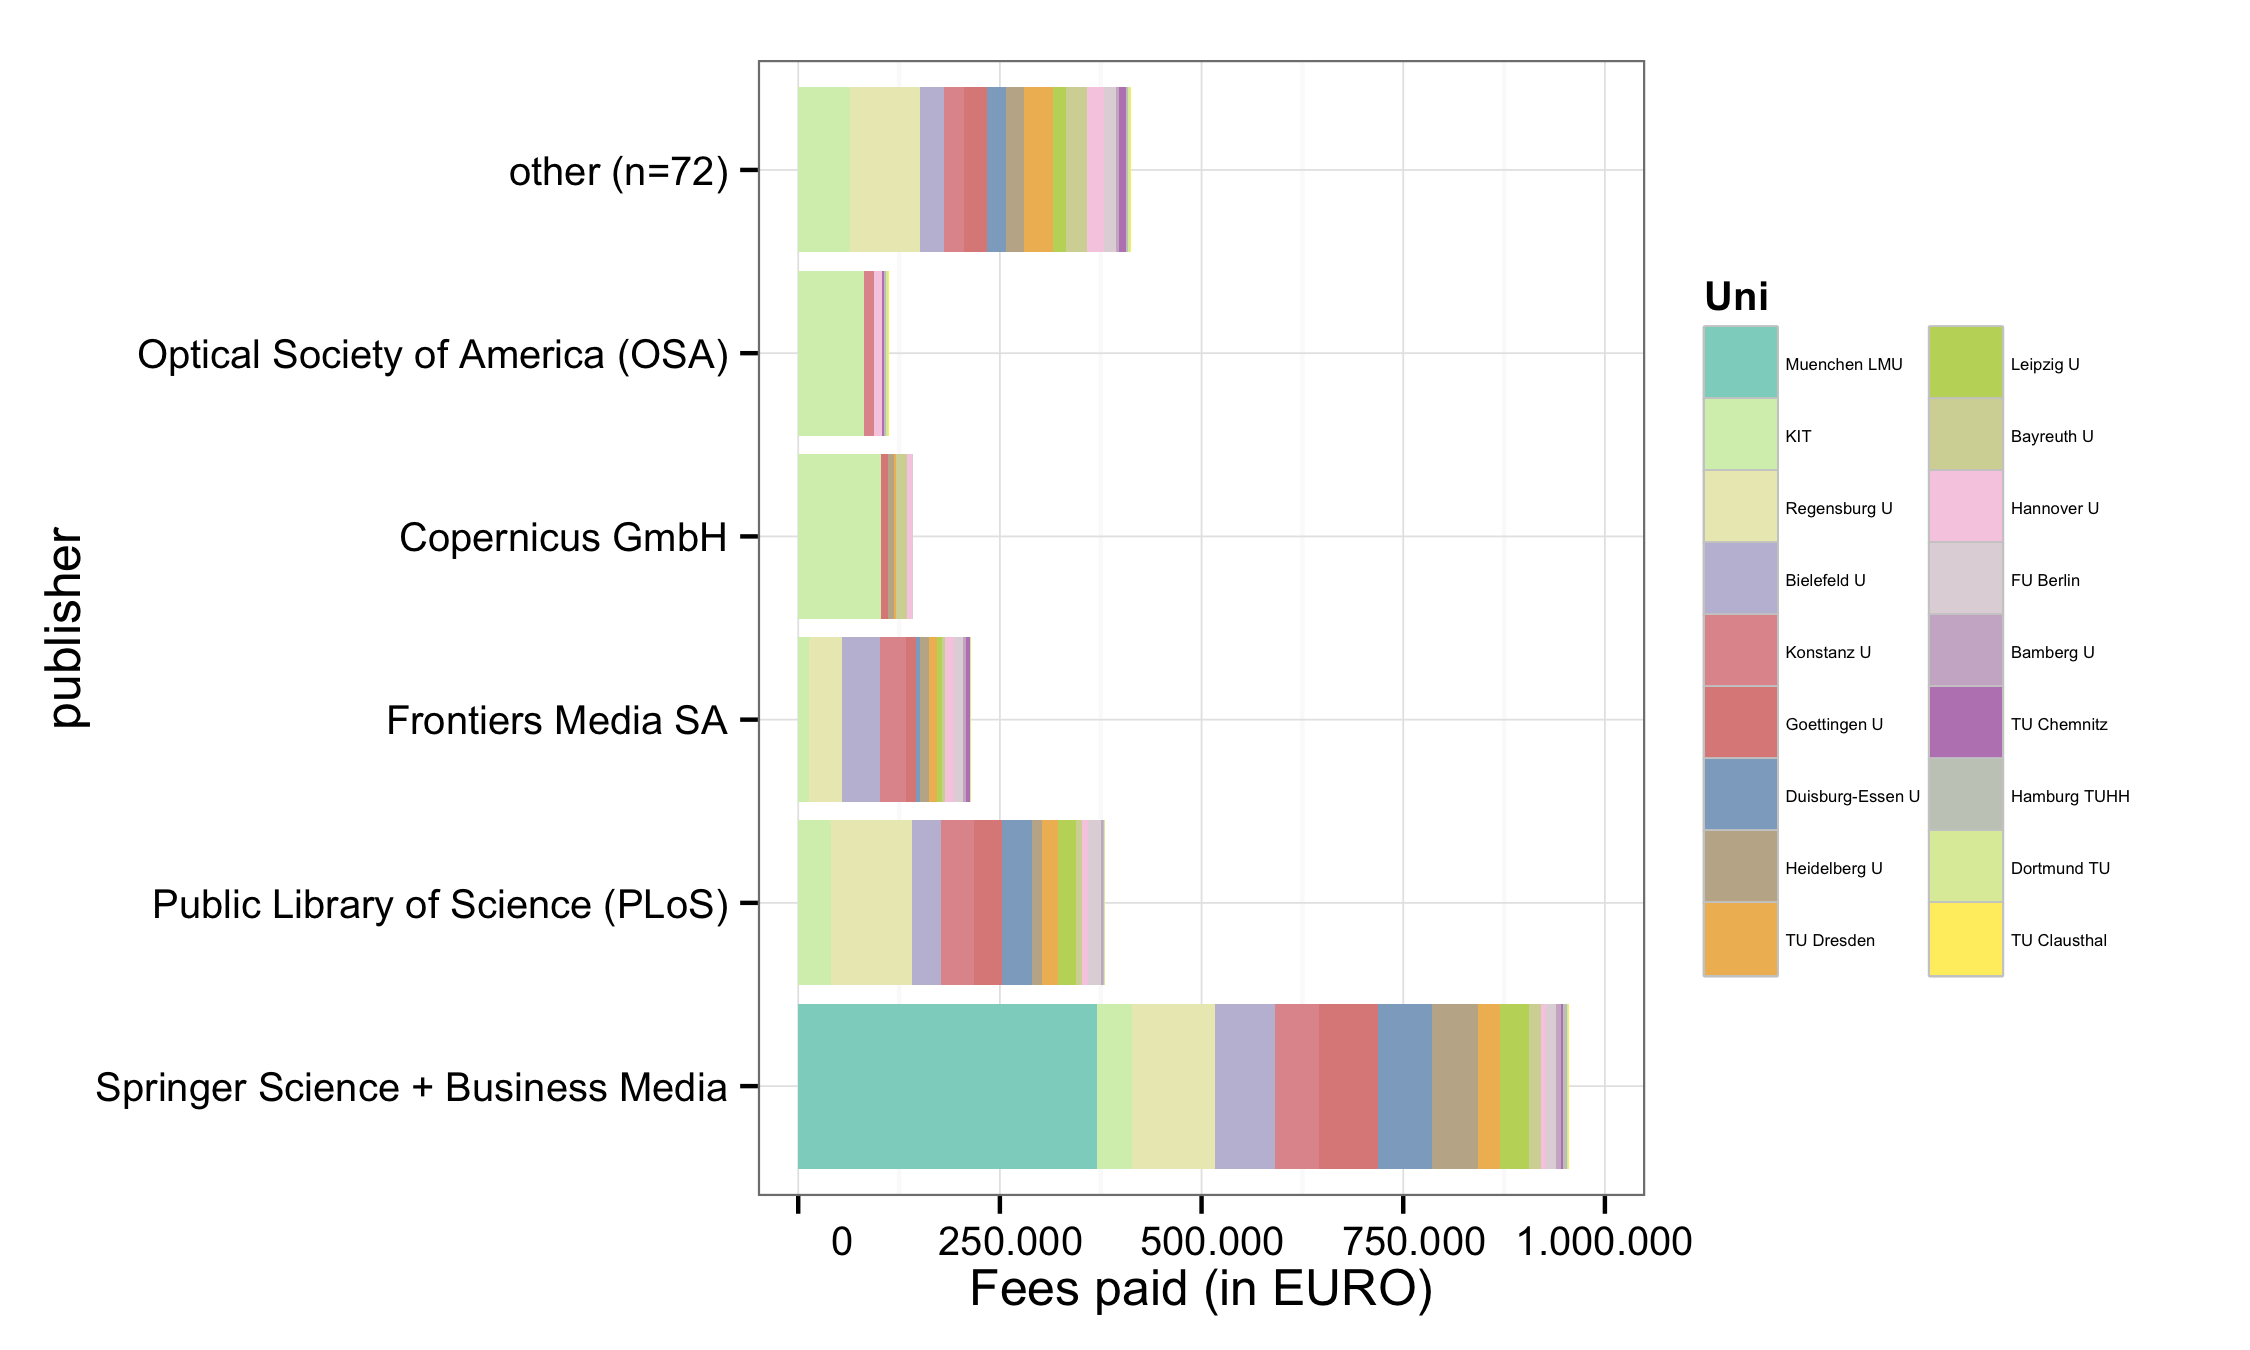
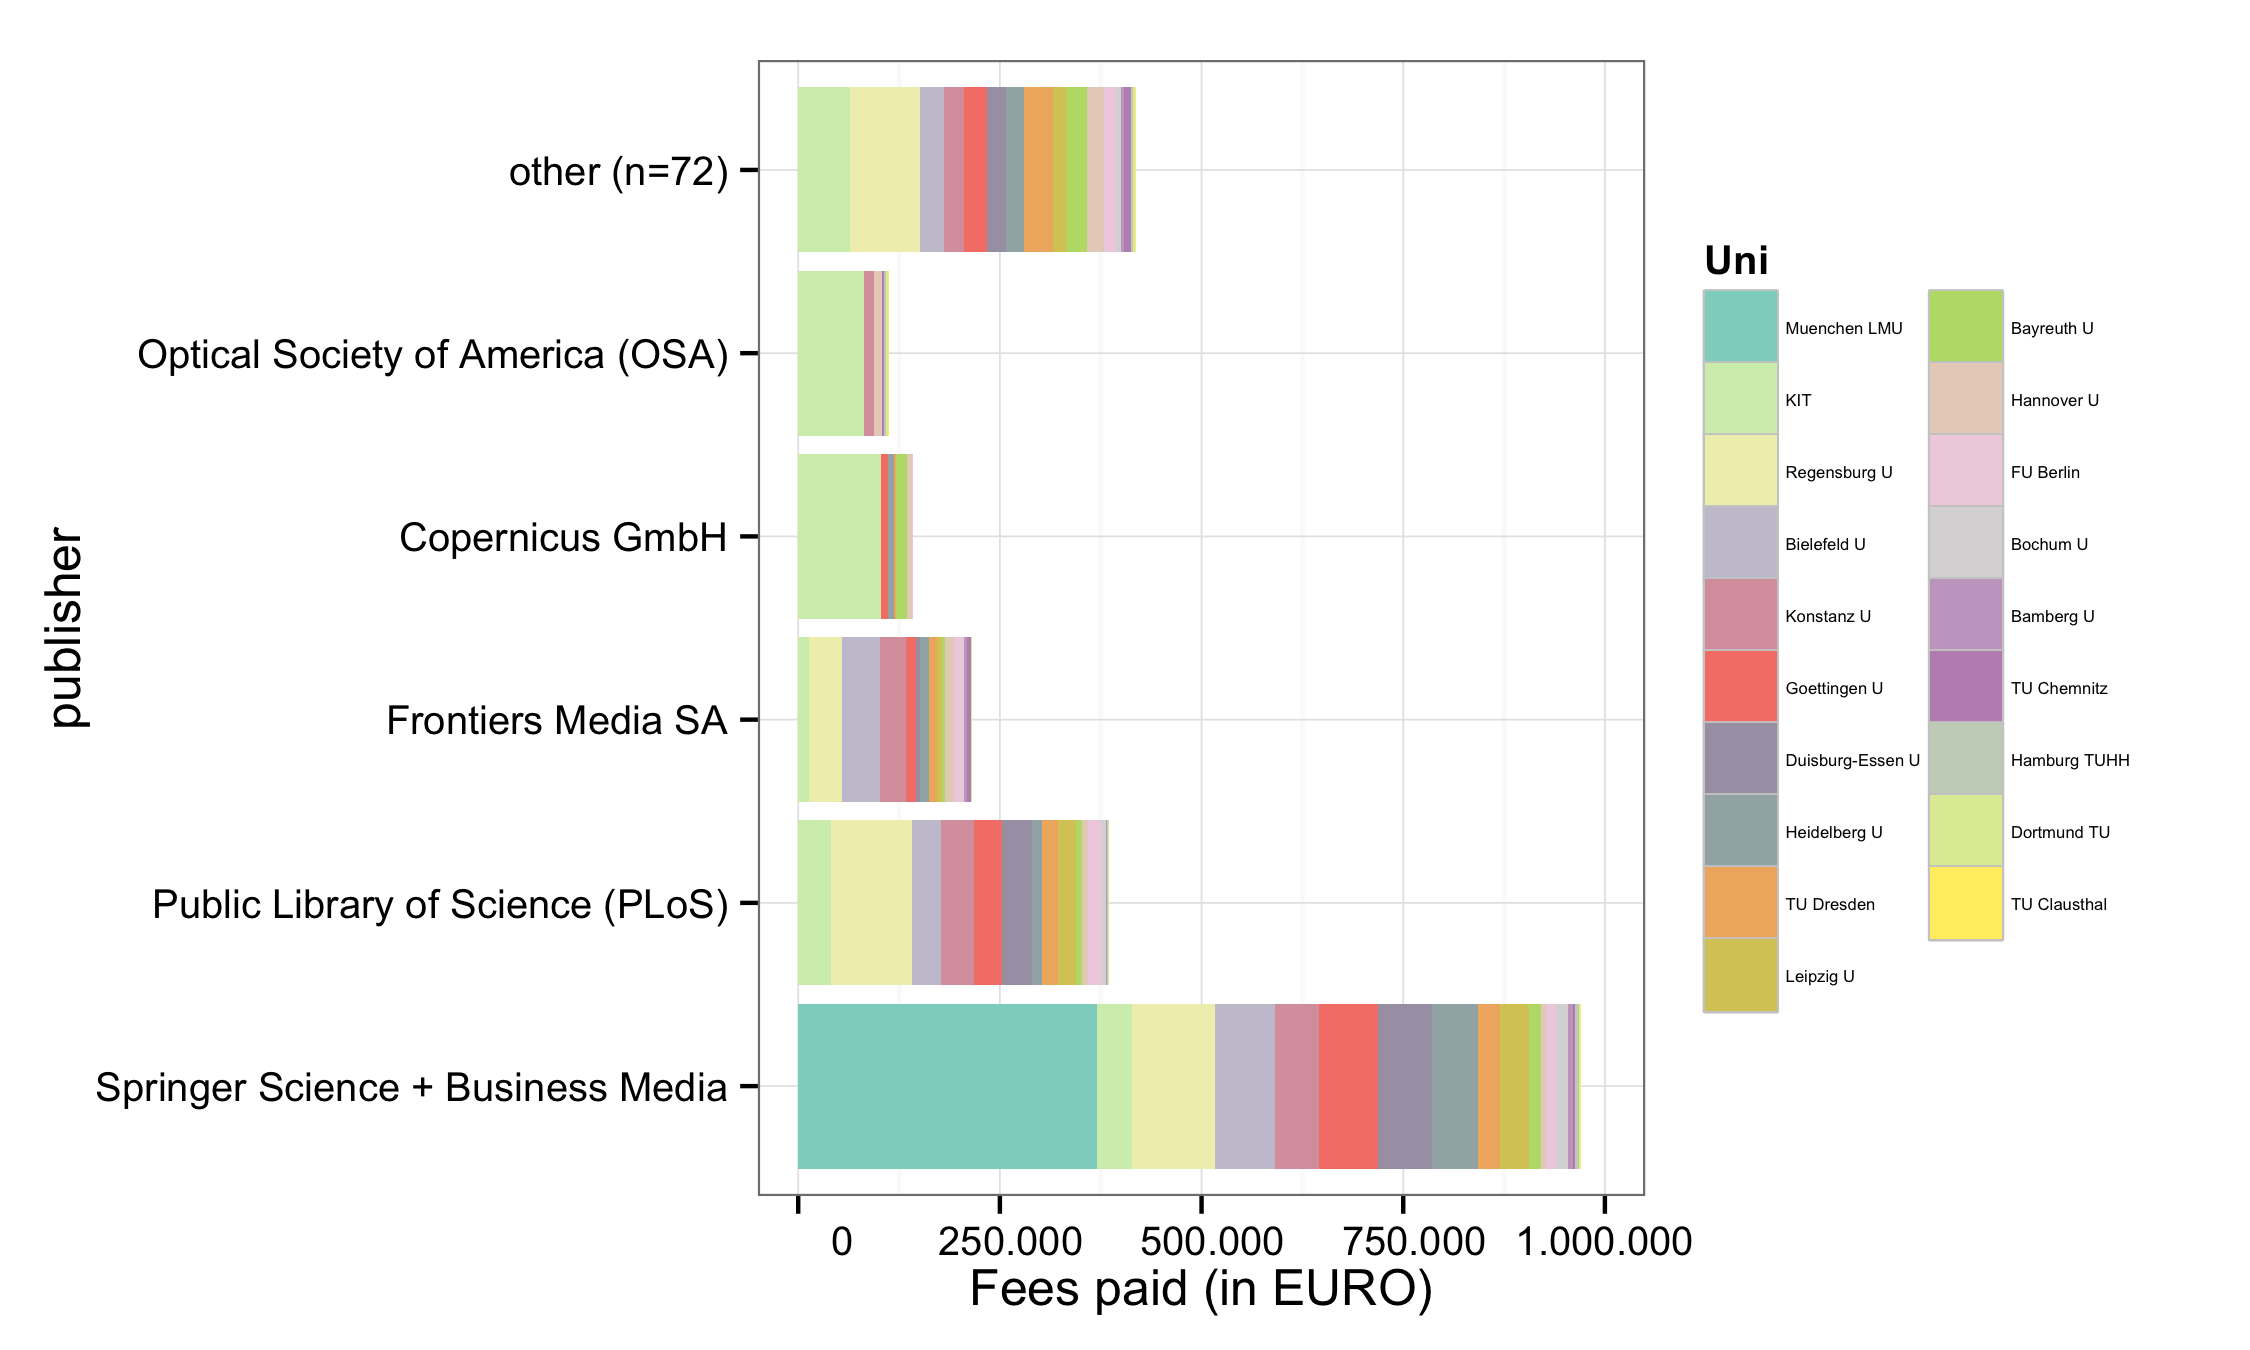
rub 2014 #43

diff --git a/README.md b/README.md
@@ -23,6 +23,7 @@ So far, the following German universities have agreed to share information on pa
 - [Ludwig-Maximilians-Universität München](http://www.en.ub.uni-muenchen.de/writing/open-access-publishing/funding/index.html)
 - [Free University of Berlin](http://www.fu-berlin.de/sites/open_access/dienstleistungen/artikelgebuehren/publikationsfonds/index.html)
 - [KIT Karlsruhe](http://www.bibliothek.kit.edu/cms/kit-publikationsfonds.php)
+- [Ruhr Universität Bochum](http://www.ruhr-uni-bochum.de/oa/)
 - [Technische Universität Chemnitz](https://www.tu-chemnitz.de/ub/publizieren/openaccess/publikationsfonds.html)
 - [Technische Universität Dortmund](http://www.ub.tu-dortmund.de/open-access/index.html)
 - [Technische Universität Dresden](http://www.slub-dresden.de/service/schreiben-publizieren/open-access-service/publikationsfonds/)
@@ -54,13 +55,13 @@ ation/library)
 
 Information on both open access journal articles and open access publication of articles in toll-access journals ("hybrid") are provided.
 
-In total,  3 679 062€ for  3 004 articles were paid by the participating unviversities. Average  fee is 1 224.7€ and the median 1 190€.
+In total,  3 706 751€ for  3 029 articles were paid by the participating unviversities. Average  fee is 1 223.8€ and the median 1 190€.
 
 ### Open Access Journals
 
 
 
-At the moment, the dataset releases information on 2 991 articles in open access journals which charge publication fees. Total expenditure amounts to  3 654 769€. Average  fee is 1 221.9€ and the median 1 190€.
+At the moment, the dataset releases information on 3 016 articles in open access journals which charge publication fees. Total expenditure amounts to  3 682 458€. Average  fee is 1 221€ and the median 1 190€.
 
 View dataset on [GitHub](https://github.com/OpenAPC/openapc-de/blob/master/data/apc_de.csv).
 
@@ -70,6 +71,7 @@ View dataset on [GitHub](https://github.com/OpenAPC/openapc-de/blob/master/data/
 |Bamberg U                                   |       16|             15932|           996|    960|
 |Bayreuth U                                  |       57|             64519|          1132|   1104|
 |Bielefeld U                                 |      160|            187296|          1171|   1160|
+|Bochum U                                    |       25|             27689|          1108|   1216|
 |Dortmund TU                                 |        9|              8238|           915|    900|
 |Duisburg-Essen U                            |      114|            130989|          1149|   1194|
 |FU Berlin                                   |       45|             56074|          1246|   1177|
@@ -169,7 +171,7 @@ This work is licensed under the Creative Commons Attribution 4.0 Unported Licens
 
 Bielefeld University Library archives a remote including version history. To cite:
 
-Apel, Jochen; Becker, Hans-Georg; Bertelmann, Roland; Beucke, Daniel; Blumtritt, Ute; Busjahn, Dorothea;  Deinzer, Gernot; Dorner, Andrea; Engelhardt, Clemens; Hell, Dominik; Herb, Ulrich; Feldsien-Sudhaus, Inken; Franke, Fabian; Frick, Claudia; Geschuhn, Kai Karin; Kuehle, Gerrit; Jaeger, Doris;  Lützenkirchen, Frank; Kroiss, Stephanie; Oberländer, Anja; 
+Apel, Jochen; Becker, Hans-Georg; Bertelmann, Roland; Beucke, Daniel; Blumtritt, Ute; Busjahn, Dorothea;  Deinzer, Gernot; Dorner, Andrea; Engelhardt, Clemens; Hell, Dominik; Herb, Ulrich; Feldsien-Sudhaus, Inken; Franke, Fabian; Frick, Claudia; Geschuhn, Kai Karin; Jaeger, Doris; Kroiss, Stephanie; Kuehle, Gerrit; Lucht-Roussel, Kathrin;  Lützenkirchen, Frank; Oberländer, Anja; 
 Peil, Vitali; Pieper, Dirk; Schlachter, Michael; Schlegel, Birgit; Sikora, Adriana; Tullney, Marco; Vieler, Astrid; Witt, Sabine; Jahn, Najko; (2014 -): *Datasets on fee-based Open Access publishing across German Institutions*. Bielefeld University. [10.4119/UNIBI/UB.2014.18](http://dx.doi.org/10.4119/UNIBI/UB.2014.18)
 
 ## Acknowledgement
@@ -180,7 +182,7 @@ For data enrichment, sample visualisations and explorations we build on the work
 
 ## Contributors
 
-Jochen Apel, Hans-Georg Becker, Roland Bertelmann, Daniel Beucke, Ute Blumtritt, Dorothea Busjahn, Gernot Deinzer, Andrea Dorner,  Clemens Engelhardt, Dominik Hell, Ulrich Herb, Inken Feldsien-Sudhaus, Fabian Franke, Claudia Frick, Kai Karin Geschuhn, Gerrit Kuehle, Doris Jaeger, Stephanie Kroiss, Frank Lützenkirchen, Anja Oberländer, Vitali Peil, Dirk Pieper, Michael Schlachter, Birgit Schlegel, Adriana Sikora, Marco Tullney, Astrid Vieler, Sabine Witt, Najko Jahn
+Jochen Apel, Hans-Georg Becker, Roland Bertelmann, Daniel Beucke, Ute Blumtritt, Dorothea Busjahn, Gernot Deinzer, Andrea Dorner,  Clemens Engelhardt, Dominik Hell, Ulrich Herb, Inken Feldsien-Sudhaus, Fabian Franke, Claudia Frick, Kai Karin Geschuhn, Gerrit Kuehle, Doris Jaeger, Stephanie Kroiss, Kathrin Lucht-Roussel, Frank Lützenkirchen, Anja Oberländer, Vitali Peil, Dirk Pieper, Michael Schlachter, Birgit Schlegel, Adriana Sikora, Marco Tullney, Astrid Vieler, Sabine Witt, Najko Jahn
 
 ## Contact
 
